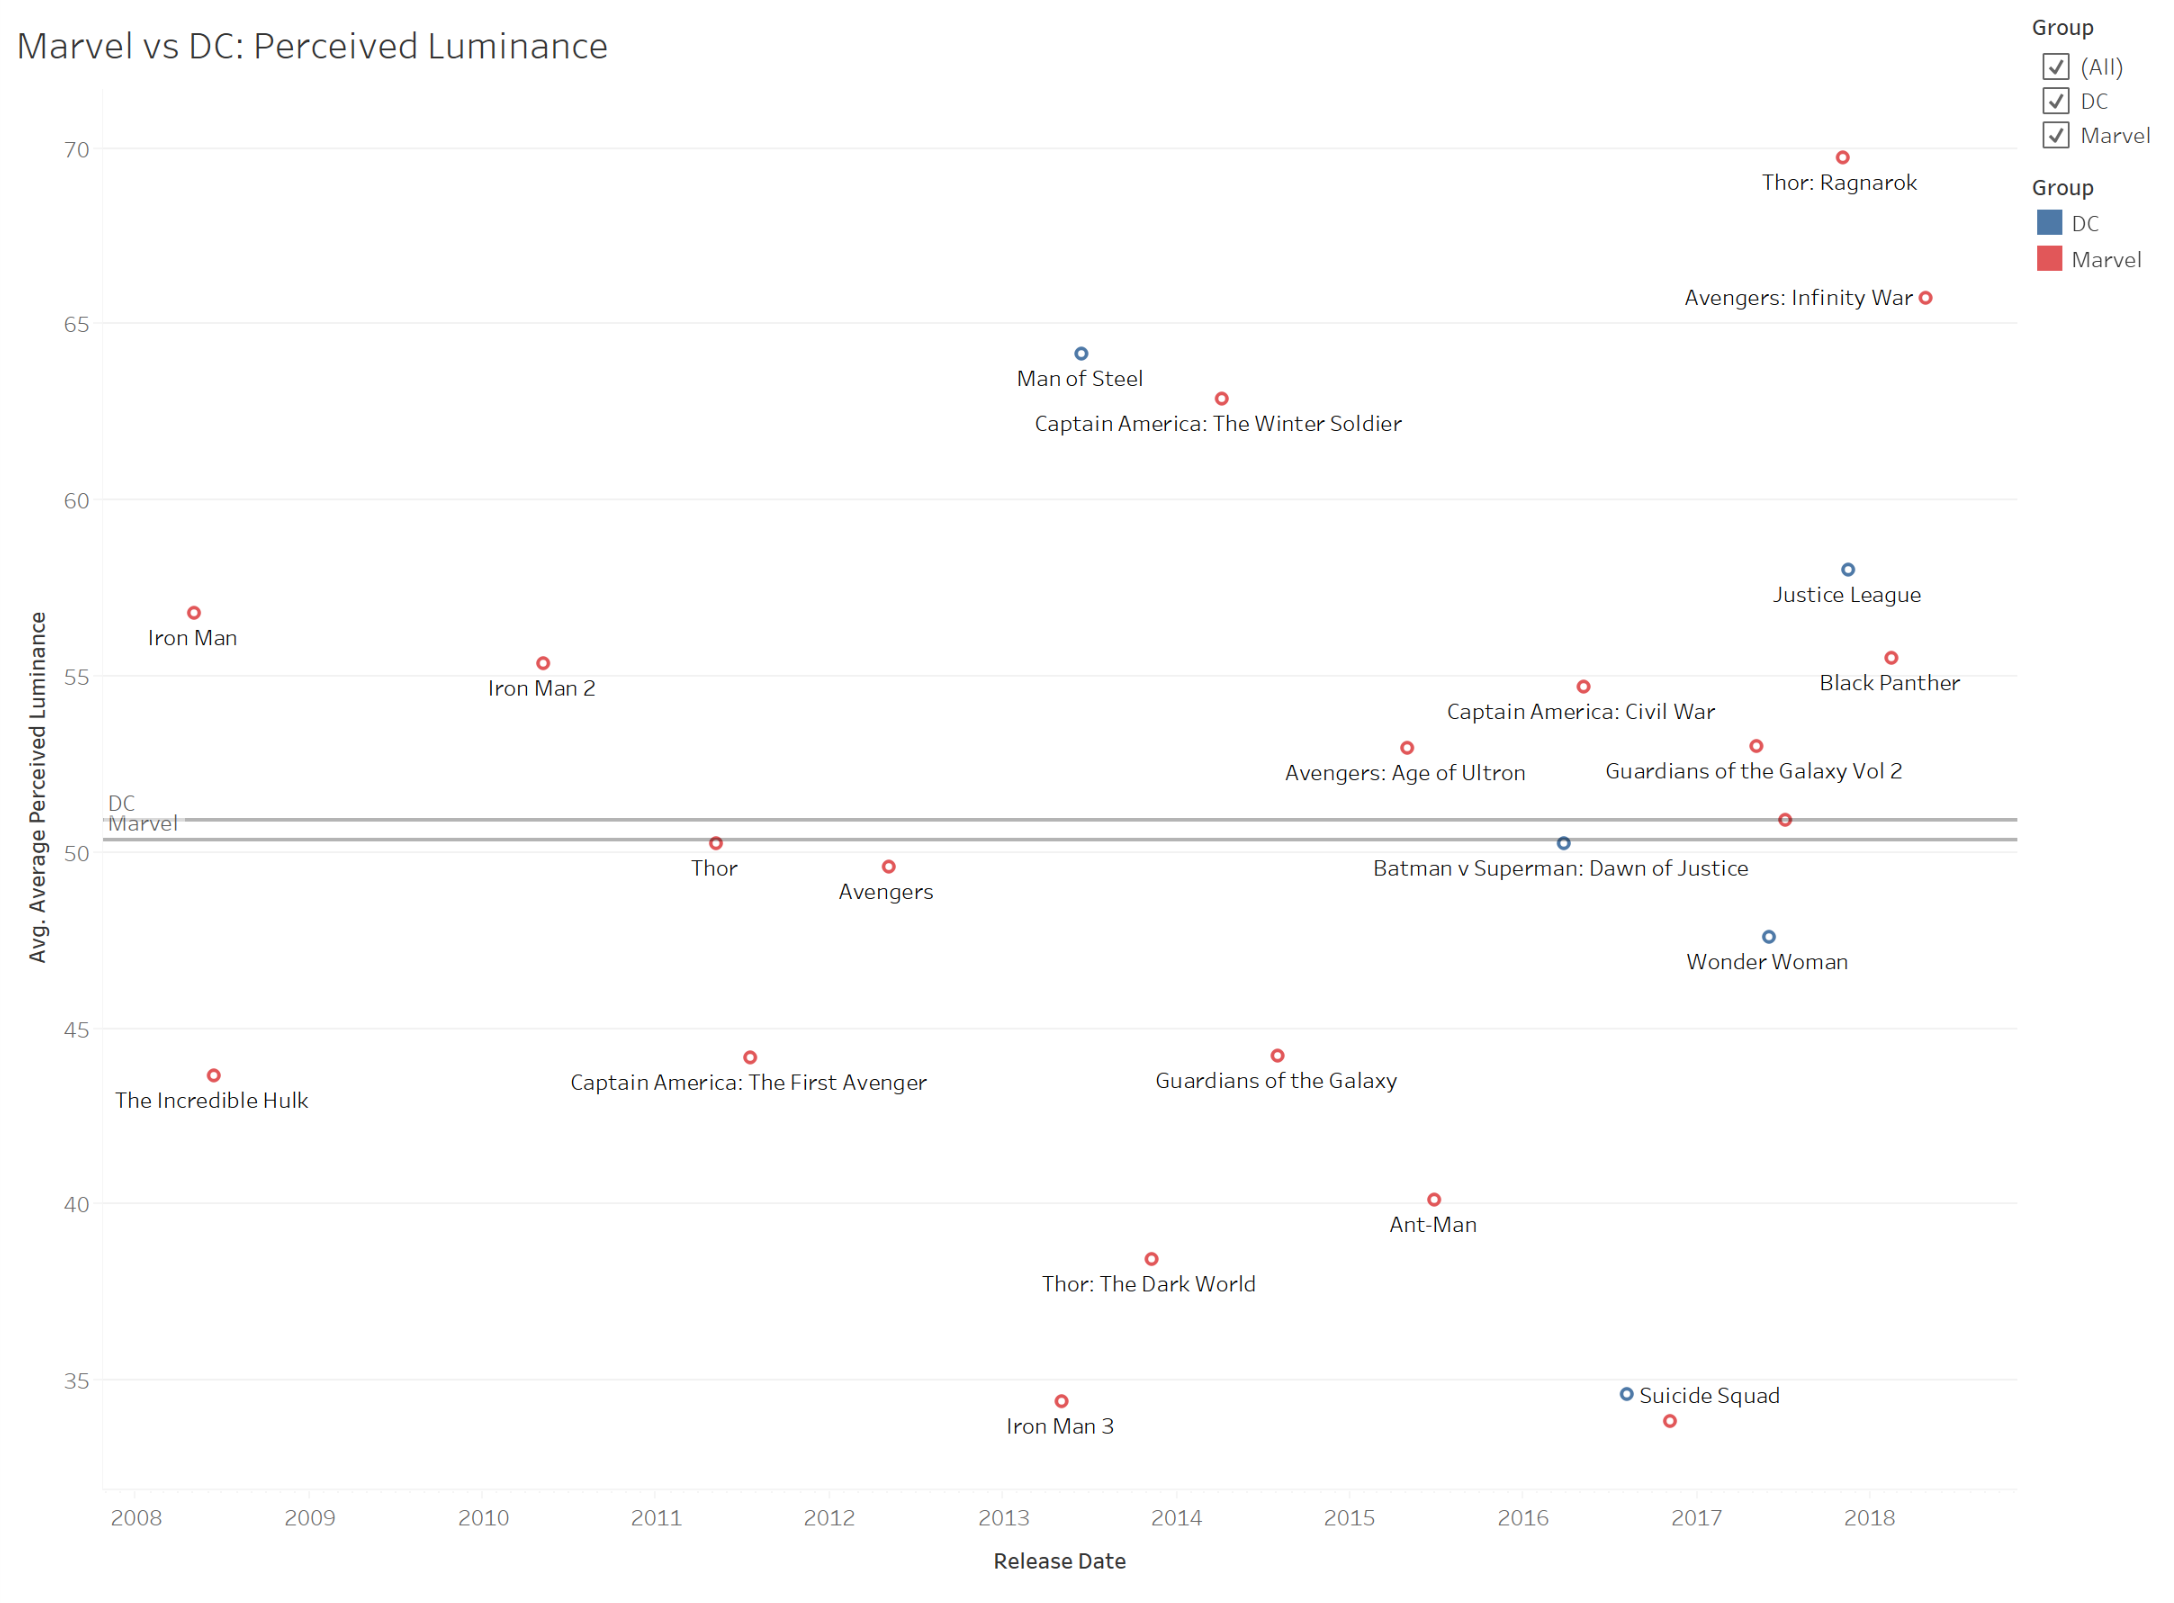
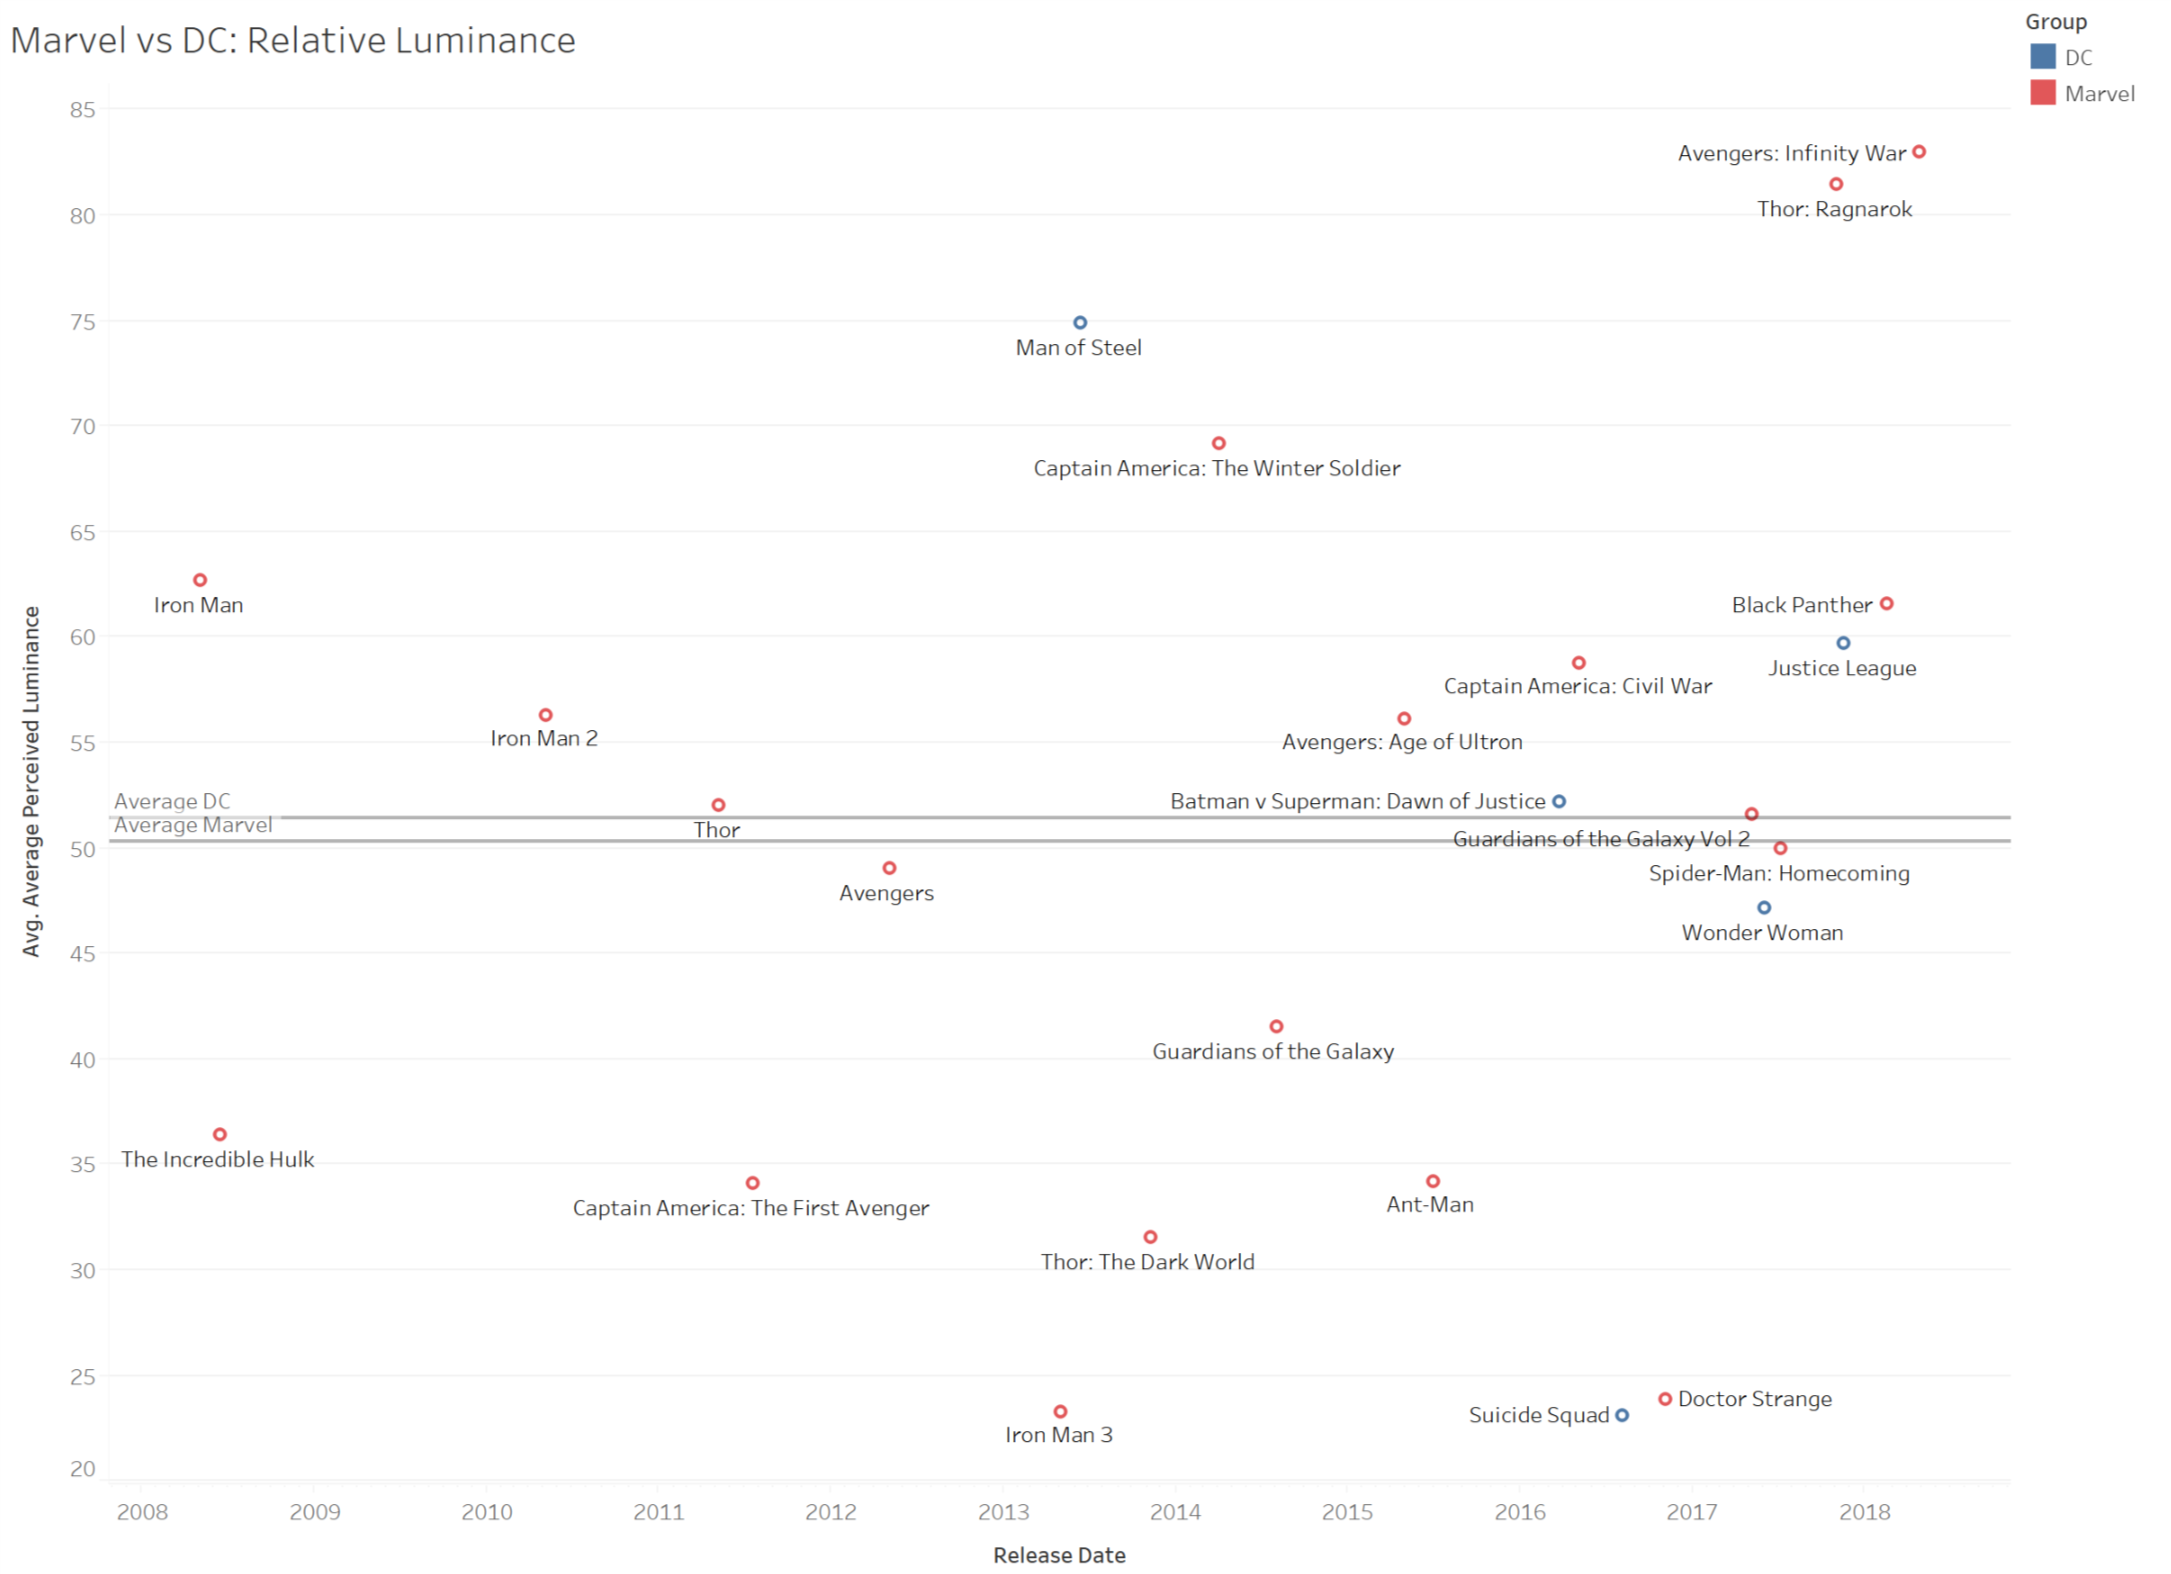
Produced results with W3 function

diff --git a/calculate.py b/calculate.py
@@ -12,7 +12,7 @@ $ python calculate.py [movie.mp4] [output.csv]
 ----
 Output
 
-Percieved Luminance = 0.2126 * R + 0.7152 * G + 0.0722 * B`
+Percieved Luminance = 0.2126 * R + 0.7152 * G + 0.0722 * B
 '''
 import cv2
 import os
@@ -42,10 +42,11 @@ def setup():
 def brightness( frame ):
     frame = Image.fromarray(frame)
     stat = ImageStat.Stat(frame)
-    r,g,b = (stat.mean/255)
-    return math.sqrt(0.2126*(relative(r)) + 0.7152*(relative(g)) + 0.0722*(relative(b)))
+    r,g,b = stat.mean
+    return (0.2126*(relativeLum(r)) + 0.7152*(relativeLum(g)) + 0.0722*(relativeLum(b)))
 
-def relative( colour ):
+def relativeLum( colour ):
+    colour = colour / 255
     if((colour) <= 0.03928):
         return (colour/12.92)
     else:

diff --git a/README.md b/README.md
@@ -9,7 +9,8 @@ Using OpenCV 3.2+ and Numpy, this script was initially created to analyse the Pe
 $ `python calculate.py [movie.mp4] [output.csv]`
 
 * Uses OpenCV's VideoCapture to go through the source video
-* Calculates average RGB 
+* Converts Gamma RGB to Linear RGB 
+* Calculates `L = 0.2126 * R + 0.7152 * G + 0.0722 * B`
 * Applies Luminance over 1 second of source video 
 * Writes to `output.csv`
 
